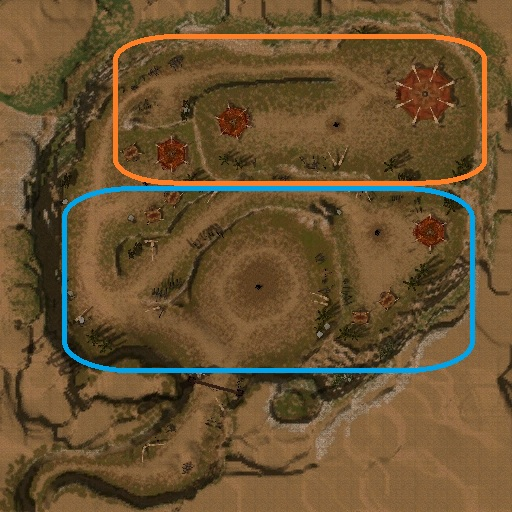
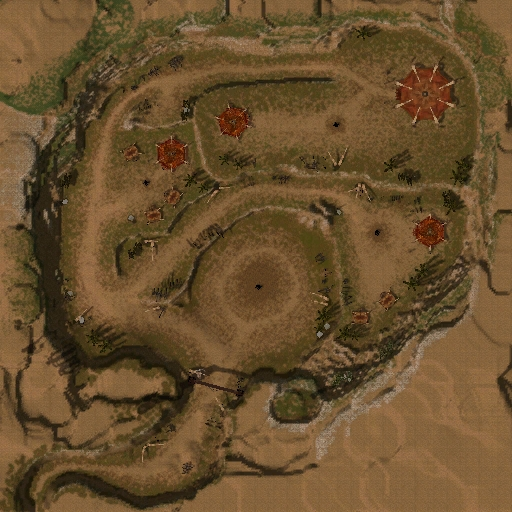
Add files via upload

Changed region(s): [[0.0938, 0.0625, 0.9688, 0.75]]

diff --git a/public/giganty.html b/public/giganty.html
@@ -154,23 +154,60 @@
   /* ═══ MAPA GIGANTÓW ═══ */
   .map-widget{
     display:flex;align-items:center;justify-content:center;
-    padding:20px 20px 0;gap:24px;flex-wrap:wrap;
+    padding:24px 20px 0;gap:28px;flex-wrap:wrap;
+  }
+  /* Outer decorative wrapper */
+  .map-outer{
+    position:relative;flex-shrink:0;
+    padding:14px;
+    background:linear-gradient(135deg,#1a1208,#0e0b06,#1a1208);
+    border:2px solid var(--gold-dark);
+    box-shadow:
+      0 0 0 1px rgba(201,168,76,0.15),
+      0 0 20px rgba(201,168,76,0.12),
+      0 0 60px rgba(0,0,0,0.8),
+      inset 0 0 20px rgba(0,0,0,0.5);
+  }
+  /* Corner pieces — ornate L-shapes */
+  .map-outer::before,.map-outer::after{
+    content:'';position:absolute;width:22px;height:22px;
+    border-color:var(--gold);border-style:solid;
+    z-index:5;
+  }
+  .map-outer::before{top:-1px;left:-1px;border-width:3px 0 0 3px;box-shadow:-2px -2px 6px rgba(201,168,76,0.3);}
+  .map-outer::after{bottom:-1px;right:-1px;border-width:0 3px 3px 0;box-shadow:2px 2px 6px rgba(201,168,76,0.3);}
+  /* Extra corner pieces via inner elements */
+  .map-corner-tr,.map-corner-bl{position:absolute;width:22px;height:22px;border-color:var(--gold);border-style:solid;z-index:5;}
+  .map-corner-tr{top:-1px;right:-1px;border-width:3px 3px 0 0;box-shadow:2px -2px 6px rgba(201,168,76,0.3);}
+  .map-corner-bl{bottom:-1px;left:-1px;border-width:0 0 3px 3px;box-shadow:-2px 2px 6px rgba(201,168,76,0.3);}
+  /* Inner gold line border */
+  .map-inner-border{
+    position:relative;
+    border:1px solid rgba(201,168,76,0.35);
+    background:#080604;
+    box-shadow:inset 0 0 12px rgba(0,0,0,0.7);
   }
   .map-frame{
-    position:relative;width:280px;flex-shrink:0;
-    border:1px solid rgba(201,168,76,0.2);border-radius:3px;
-    overflow:hidden;background:#0a0807;
-    box-shadow:0 4px 20px rgba(0,0,0,0.6);
+    position:relative;width:260px;
+    overflow:hidden;
   }
   .map-frame img{
     display:block;width:100%;height:auto;
-    filter:brightness(0.85) saturate(0.9);
+    filter:brightness(0.88) saturate(0.92) contrast(1.05);
     image-rendering:pixelated;
   }
   /* SVG overlay on top of map */
   .map-frame svg{
     position:absolute;top:0;left:0;width:100%;height:100%;
     pointer-events:none;
+  }
+  /* Title banner below map */
+  .map-title-banner{
+    text-align:center;padding:6px 0 2px;
+    font-family:'Cinzel',serif;font-size:10px;letter-spacing:3px;
+    color:var(--gold-dark);text-transform:uppercase;
+    border-top:1px solid rgba(201,168,76,0.2);
+    background:linear-gradient(to bottom,rgba(201,168,76,0.04),transparent);
   }
   /* Region label boxes next to map */
   .map-legend{display:flex;flex-direction:column;gap:12px;min-width:160px;}
@@ -229,9 +266,13 @@
   
   <!-- ═══ MAPA GIGANTÓW ═══ -->
   <div class="map-widget">
-    <div class="map-frame">
-      <img src="/giganty_mapa.jpg" alt="Osada Tysięcy">
-      <svg viewBox="0 0 512 512" xmlns="http://www.w3.org/2000/svg">
+    <div class="map-outer">
+      <div class="map-corner-tr"></div>
+      <div class="map-corner-bl"></div>
+      <div class="map-inner-border">
+        <div class="map-frame">
+          <img src="/giganty_mapa.jpg" alt="Osada Tysięcy">
+          <svg viewBox="0 0 512 512" xmlns="http://www.w3.org/2000/svg">
         <!-- GÓRA region — pomarańczowy, zgodnie z rysunkiem na mapie -->
         <rect id="svgTop"
           x="68" y="22" width="380" height="158" rx="28"
@@ -253,7 +294,10 @@
           text-anchor="middle" font-family="Cinzel,serif" font-size="18" font-weight="600"
           fill="rgba(80,160,255,0)" style="transition:fill 0.5s;"
           stroke="rgba(0,0,0,0)" stroke-width="3" paint-order="stroke">DÓŁ</text>
-      </svg>
+          </svg>
+        </div>
+      </div>
+      <div class="map-title-banner">Osada Tysięcy</div>
     </div>
 
     <div class="map-legend">
